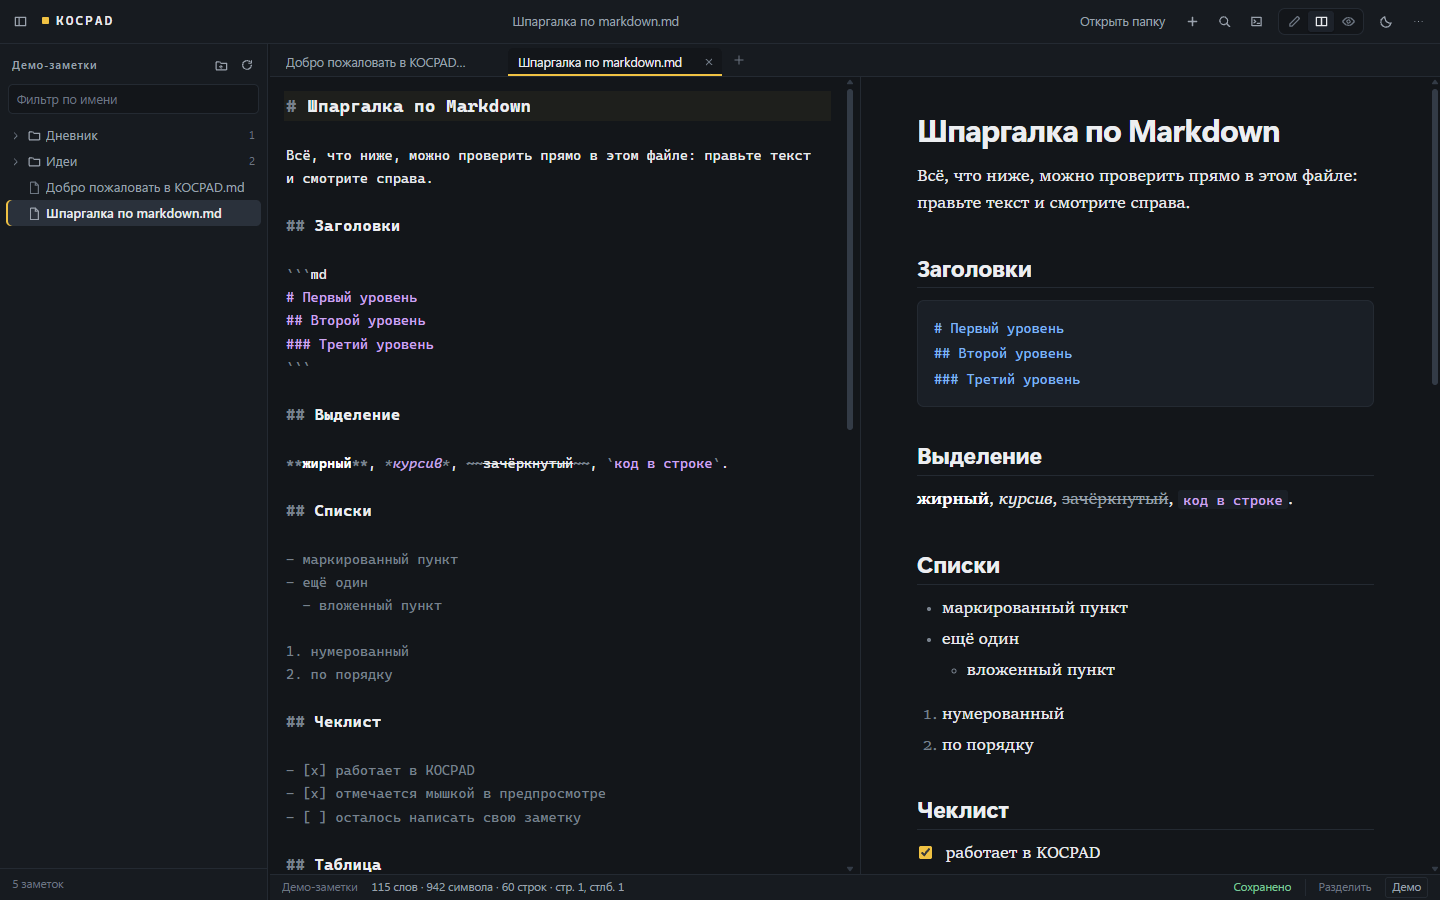
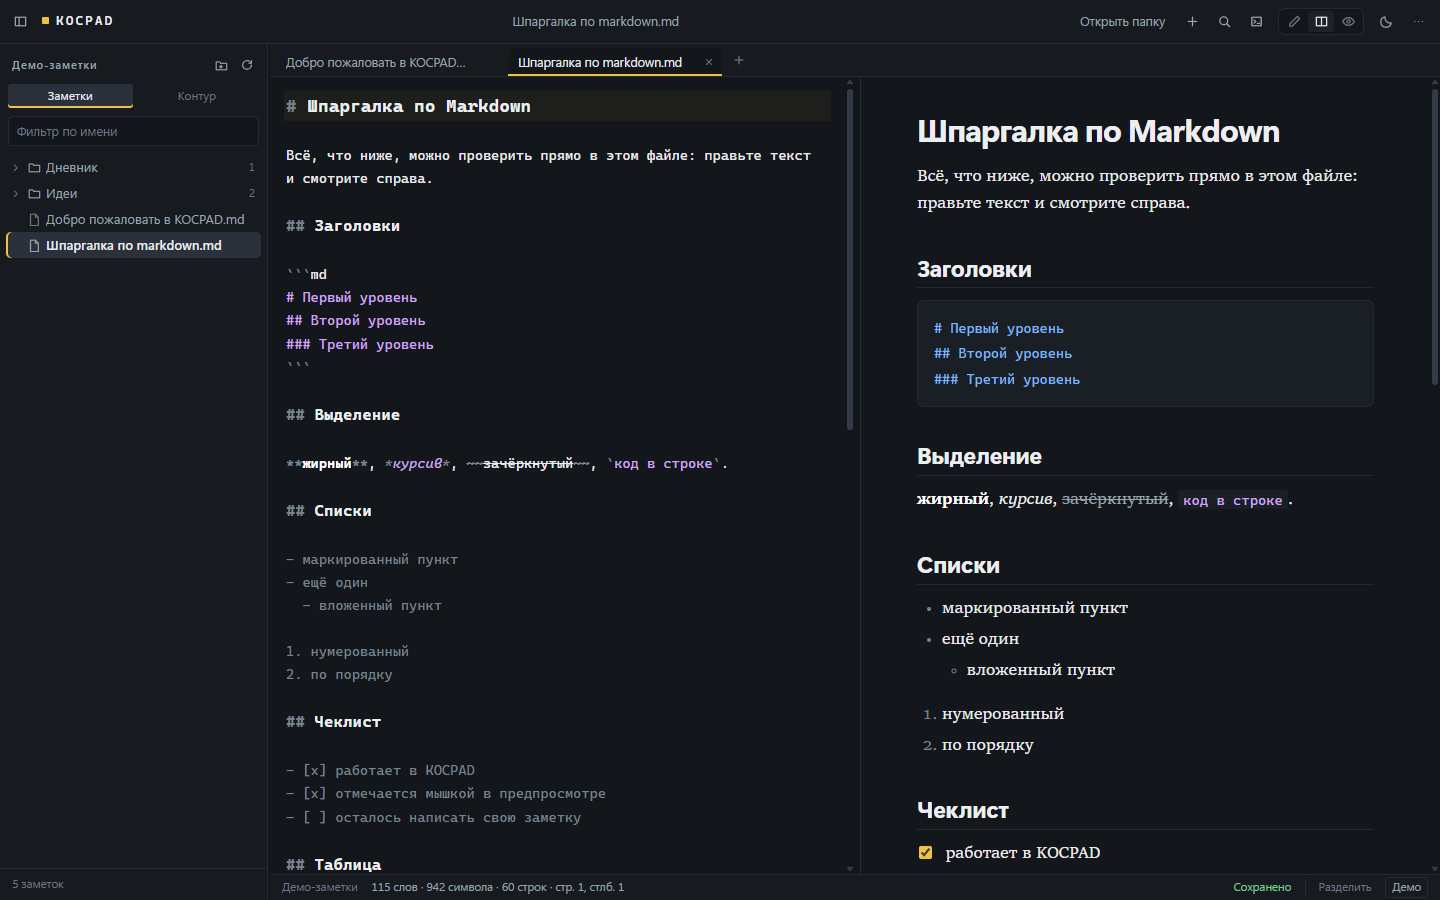
docs: describe the 0.2.0 features and refresh screenshots
README gains the outline, image and drag-drop rows, the two new shortcuts and
four screenshots; ARCHITECTURE explains the image pipeline, the outline parser,
dropped files and the settings flow; KEYBINDINGS and ROADMAP cover the new
actions; CHANGELOG records 0.2.0 and the block-insertion fix.

Changed region(s): [[0.0, 0.0933, 0.1875, 0.3111], [0.125, 0.0933, 0.1562, 0.1244]]

diff --git a/README.md b/README.md
@@ -7,8 +7,8 @@ instantly, autosaves as you type, and shows the rendered result next to the
 source. No accounts, no database, no proprietary format — just files you can
 open in any other editor.
 
-> Status: early alpha (`0.1.0`). The core notepad works end to end; packaging and
-> polish are the next milestone. See [ROADMAP.md](docs/ROADMAP.md).
+> Status: early alpha (`0.2.0`). The writing workflow works end to end; packaging
+> and polish are the next milestone. See [ROADMAP.md](docs/ROADMAP.md).
 
 ![KOCPAD in split mode, light theme](docs/screenshots/light.png)
 
@@ -30,10 +30,13 @@ open in any other editor.
 | Notes | Folder of `.md` / `.markdown` / `.mdown` / `.txt` files, tree sidebar, create / rename / delete folders and notes, filter by name |
 | Writing | CodeMirror 6 editor, markdown syntax highlighting, soft wrap, per-tab undo history, bold/italic shortcuts |
 | Preview | Live GFM render: headings, tables, task lists, code with highlighting, quotes, links; synchronized scrolling |
-| Saving | Debounced autosave (700 ms), explicit `Ctrl+S`, flush on tab switch, window blur and app close |
+| Structure | Outline panel listing every heading of the current note, click to jump, current section highlighted |
+| Images | Paste or drop an image: it is written to `assets/` next to the note and inserted as markdown; relative images render in the preview |
+| Saving | Debounced autosave (0.3 s / 0.7 s / 1.5 s, configurable), explicit `Ctrl+S`, flush on tab switch, window blur and app close |
 | Search | In-note find & replace (`Ctrl+F`, `Ctrl+H`), workspace-wide search with match snippets (`Ctrl+Shift+F`) |
-| Interface | Light / dark / follow-Windows themes, editor-only and preview-only modes, draggable sidebar and split, Russian UI |
-| Commands | Command palette (`Ctrl+K`) over every action |
+| Interface | Light / dark / follow-Windows themes, five accent colours, configurable editor and preview fonts, editor-only and preview-only modes, draggable sidebar and split, Russian UI |
+| Files in | Drag `.md` or `.txt` files from Explorer into the window to import and open them |
+| Commands | Command palette (`Ctrl+K`) over every action; settings screen (`Ctrl+,`) |
 | Export | Standalone HTML file, print-to-PDF through the system print dialog |
 | Tasks | Click a checkbox in the preview to toggle `- [ ]` in the source |
 
@@ -95,6 +98,8 @@ npm run build          # typecheck + production frontend build
 | `Ctrl+H` | Find and replace |
 | `Ctrl+Shift+F` | Search the whole workspace |
 | `Ctrl+K` | Command palette |
+| `Ctrl+,` | Settings |
+| `Ctrl+Shift+O` | Outline panel |
 | `Ctrl+E` | Cycle editor → split → preview |
 | `Ctrl+B` / `Ctrl+I` | Bold / italic |
 | `Ctrl+P` | Print (save as PDF) |
@@ -113,6 +118,10 @@ Full list with context: [docs/KEYBINDINGS.md](docs/KEYBINDINGS.md).
 | --- | --- |
 | ![Light theme](docs/screenshots/light.png) | ![Dark theme](docs/screenshots/dark.png) |
 
+| Outline panel | Settings |
+| --- | --- |
+| ![Outline panel](docs/screenshots/outline.png) | ![Settings](docs/screenshots/settings.png) |
+
 ![Workspace search](docs/screenshots/search.png)
 
 ## How it is built
@@ -123,15 +132,17 @@ KOCPAD
 ├─ src/
 │  ├─ main.ts            wiring: theme, layout, shortcuts, actions, autosave
 │  ├─ store.ts           single source of truth: settings, tree, tabs, saves
+│  ├─ images.ts          pasted images → assets/, relative images → blob URLs
 │  ├─ storage/           three backends behind one interface
 │  │  ├─ tauri.ts        native build → Rust commands
 │  │  ├─ browser.ts      File System Access API + IndexedDB handle
 │  │  └─ demo.ts         in-memory sample workspace
 │  ├─ editor.ts          CodeMirror 6 wrapper, per-document EditorState
 │  ├─ markdown.ts        GFM render, sanitizing, syntax highlight, print/export
-│  ├─ ui/                tree, tabs, status bar, dialogs, palette, search
+│  ├─ ui/                tree, outline, tabs, status bar, dialogs, palette,
+│  │                     search, settings
 │  ├─ path.ts, util.ts   path and DOM helpers
-│  └─ style.css          design tokens, themes, components
+│  └─ style.css          design tokens, themes, accents, components
 ├─ src-tauri/            Tauri 2 shell
 │  ├─ src/fs_ops.rs      list / read / write / rename / delete / reveal
 │  ├─ tauri.conf.json    window, CSP, bundle config
@@ -147,16 +158,16 @@ Design decisions worth knowing:
   so undo history and caret survive tab switches.
 - **Writes are serialized per path.** Autosave and explicit saves cannot
   interleave; a snapshot is only marked clean after it reached the disk.
-- **The Rust side is small on purpose.** Nine commands, no plugin scopes to
+- **The Rust side is small on purpose.** Eleven commands, no plugin scopes to
   maintain, one place that decides which files count as notes.
 
 More detail: [docs/ARCHITECTURE.md](docs/ARCHITECTURE.md).
 
 ## Roadmap
 
-Near-term: local `.exe` build verified on a clean machine, installer signing,
-drag-and-drop files, image paste, outline panel, and splitting export into
-per-document themes. The full list lives in [docs/ROADMAP.md](docs/ROADMAP.md).
+Near-term: verify the local `.exe` build on a clean machine, code-sign the
+installer, and remember window geometry between launches. The full list lives in
+[docs/ROADMAP.md](docs/ROADMAP.md).
 
 ## Contributing
 

diff --git a/docs/ARCHITECTURE.md b/docs/ARCHITECTURE.md
@@ -37,6 +37,8 @@ interface Storage {
   listTree(): Promise<NoteNode[]>;
   readText(path: string): Promise<string>;
   writeText(path: string, text: string): Promise<void>;
+  readBinary(path: string): Promise<Uint8Array<ArrayBuffer>>;
+  writeBinary(path: string, bytes: Uint8Array<ArrayBuffer>): Promise<void>;
   createFile(path: string, text?: string): Promise<void>;
   createDir(path: string): Promise<void>;
   rename(from: string, to: string): Promise<void>;
@@ -61,8 +63,13 @@ The rest of the app treats paths as opaque strings and only uses the helpers in
 
 **Why Rust commands instead of `tauri-plugin-fs`:** the plugin needs a configured
 allow-list scope per directory, which is awkward for a user-picked folder at
-runtime. Nine small commands keep permissions simple and let the native side
+runtime. Eleven small commands keep permissions simple and let the native side
 decide which files are notes (`.md`, `.markdown`, `.mdown`, `.txt`).
+
+Binary assets cross the Tauri IPC boundary as base64 (`fs_read_binary` /
+`fs_write_binary`), because a JSON array of bytes is dramatically slower for a
+few-megabyte image. The browser backend writes an `ArrayBuffer` straight into the
+File System Access stream.
 
 ## Document lifecycle
 
@@ -98,6 +105,45 @@ CodeMirror 6 with:
 - a single `HighlightStyle` whose colours are CSS variables — one style, both themes;
 - per-document `EditorState` stored in a `Map<path, EditorState>`.
 
+Editor font family and size are CSS variables (`--font-editor`,
+`--editor-font-size`), so the settings screen changes them without touching the
+editor instance.
+
+## Outline
+
+`parseHeadings()` walks the active document line by line, tracks fenced code
+blocks (` ``` ` / `~~~`) so a `# comment` inside a snippet is not mistaken for a
+section, and collects ATX headings with their line number. Inline markdown is
+stripped for display. The outline highlights the last heading at or above the
+caret, which gives a sense of position in long notes; clicking an entry dispatches
+`editor.scrollToLine()`.
+
+## Images
+
+Pasted and dropped images go through `ImageStore` (`src/images.ts`):
+
+1. bytes are written to `assets/` next to the note (name collisions get a numeric
+   suffix, `screen.png` → `screen-1.png`);
+2. `![](assets/screen.png)` is inserted on its own line at the caret;
+3. when the preview renders, every relative `img[src]` is resolved against the
+   note's folder, the bytes are read through the storage backend and turned into a
+   blob URL. Remote schemes (`http`, `data`, `blob`) pass through untouched, and a
+   missing file becomes a readable placeholder instead of a broken image icon.
+
+Because resolution goes through `Storage.readBinary`, images work identically for
+native files, a browser folder and the in-memory demo.
+
+`assets/` folders that contain no notes are pruned from the notes tree so the
+sidebar stays a list of notes.
+
+## Dropped files
+
+HTML5 drag & drop is enabled in the Tauri window (`dragDropEnabled: false`), which
+hands the webview the actual `File` objects. Dropped markdown and text files are
+imported into the active note's folder and opened; an existing note with the same
+name is opened instead of overwritten. Dropped images follow the image pipeline
+above.
+
 ## Preview and export
 
 `renderMarkdown()` runs `marked` (GFM) and then DOMPurify with an explicit
@@ -118,12 +164,19 @@ re-render from state; there is no virtual DOM and no diffing. Settings live in
 `localStorage` (`kocpad.settings`), the last workspace root in `kocpad.root`, and
 open tabs in `kocpad.tabs`.
 
+The settings screen writes through `store.patchSettings()`, so a control never
+mutates the DOM directly: the change is persisted, a `settings` event fires, and
+`applyLayout()` / `applyTypography()` / `applySidebarTab()` re-apply tokens and
+layout from state.
+
 ## Theming
 
 Two themes, tokens only (`src/style.css`): a graphite “paper” chrome with one
-marker-yellow accent. The editor, the preview and every dialog read the same CSS
-variables, so adding a theme means adding one token block. `system` follows
-`prefers-color-scheme` and reacts to runtime changes.
+accent. The accent is chosen from five presets (`marker`, `azure`, `jade`, `iris`,
+`rose`) which override `--accent`, selection and quote-bar variables per theme.
+Editor, preview and every dialog read the same CSS variables, so adding a theme
+means adding one token block. `system` follows `prefers-color-scheme` and reacts to
+runtime changes.
 
 ## Security notes
 

diff --git a/CHANGELOG.md b/CHANGELOG.md
@@ -4,6 +4,42 @@ All notable changes to KOCPAD are documented here. The format follows
 [Keep a Changelog](https://keepachangelog.com/en/1.1.0/), and the project uses
 [semantic versioning](https://semver.org/).
 
+## [0.2.0] — 2026-11-18
+
+Writing comfort: structure, images and settings.
+
+### Added
+
+- Outline panel in the sidebar (Заметки / Контур tabs): lists every heading of the
+  active note, skips headings inside fenced code, highlights the section the caret
+  is in, and jumps to a line on click.
+- Image support: pasting an image or dropping an image file writes it to an
+  `assets/` folder next to the note, inserts `![](assets/name.png)` on its own
+  line, and renders relative images in the preview through blob URLs. Name
+  collisions get a numeric suffix.
+- Drag & drop for `.md` / `.txt` files: a dropped note is imported into the current
+  folder and opened; a note with the same name is opened instead of overwritten.
+- Settings screen (`Ctrl+,`): theme, five accent colours, editor font family and
+  size, preview font family and size, autosave delay, line numbers, synchronized
+  scrolling, and a reset button.
+- Accent themes applied across the whole UI as CSS variables.
+- Binary read/write on every storage backend: base64 over Tauri IPC, `ArrayBuffer`
+  through the File System Access API, in-memory blobs for the demo workspace.
+
+### Changed
+
+- Autosave delay is a user setting (0.3 s / 0.7 s / 1.5 s) instead of a constant.
+- Editor and preview typography moved to CSS variables, so font changes apply
+  without reloading the editor.
+- `assets/` folders that contain no notes are hidden from the notes tree.
+- The Tauri window disables native drag & drop so the webview receives HTML5 file
+  drops with the actual file contents.
+
+### Fixed
+
+- Inserted images no longer glue to the following line when the caret sits at the
+  start or middle of a line.
+
 ## [0.1.0] — 2026-11-18
 
 First working version: a markdown notepad that keeps notes as plain files.

diff --git a/docs/ROADMAP.md b/docs/ROADMAP.md
@@ -13,23 +13,26 @@
 - [x] Three storage backends: Tauri, browser File System Access, in-memory demo
 - [x] Tauri 2 shell with native file commands, app icons, CI build
 
-## 0.2.0 — ship a real installer
+## 0.2.0 — writing comfort (done)
+
+- [x] Outline panel: every heading of the current note, click to jump, active section
+  follows the caret
+- [x] Paste or drop an image: saved to `assets/` next to the note, markdown inserted
+  on its own line, relative images rendered in the preview
+- [x] Drag `.md` / `.txt` files into the window to import and open them
+- [x] Settings screen (`Ctrl+,`): theme, five accent colours, editor font family and
+  size, preview font family and size, autosave delay, line numbers, sync scrolling
+- [x] Autosave delay is a setting instead of a constant
+- [x] Binary storage on all three backends (base64 over Tauri IPC)
+
+## 0.3.0 — ship a real installer
 
 - [ ] Verify `tauri build` on a clean Windows machine and attach the installer to a release
 - [ ] Code-sign the exe and installer (avoids SmartScreen warnings)
 - [ ] Remember window size and position between launches
-- [ ] Drag & drop a `.md` file onto the window to open it
 - [ ] “Recent folders” list in the palette
 - [ ] First-run onboarding: pick a folder in one step
-
-## 0.3.0 — writing comfort
-
-- [ ] Outline panel (headings of the current note) with click-to-jump
-- [ ] Paste or drop an image: copy into `assets/`, insert `![](...)`
-- [ ] Autocomplete for markdown syntax and note links
-- [ ] Word-level diff against disk for the “changed outside” case with a reload prompt
-- [ ] Configurable autosave delay and editor font family
-- [ ] Vim / Emacs keymap option
+- [ ] Configurable tab width and a Vim / Emacs keymap option
 
 ## 0.4.0 — larger libraries
 

diff --git a/docs/KEYBINDINGS.md b/docs/KEYBINDINGS.md
@@ -48,9 +48,19 @@
 | --- | --- |
 | `Ctrl+E` | Cycle editor → split → preview |
 | `Ctrl+K` | Command palette |
+| `Ctrl+,` | Settings |
+| `Ctrl+Shift+O` | Outline panel (headings of the current note) |
 | `Ctrl+\` | Show or hide the sidebar |
 | `Ctrl+Shift+L` | Switch between light and dark theme |
 | `Esc` | Close any dialog, palette or overlay |
+
+## Images and files
+
+| Action | Result |
+| --- | --- |
+| `Ctrl+V` with an image in the clipboard | Image saved to `assets/` next to the note, `![](...)` inserted at the caret |
+| Drop an image file onto the window | Same as paste |
+| Drop a `.md` / `.txt` file from Explorer | Imported into the current note's folder and opened (an existing note with that name is opened instead) |
 
 ## Mouse
 
@@ -58,6 +68,7 @@
 | --- | --- |
 | Click a folder | Expand or collapse it |
 | Click a note | Open it in a tab |
+| Click a heading in the outline | Jump to that line |
 | Middle click a tab | Close it |
 | Drag the sidebar edge | Resize the sidebar |
 | Drag the divider between panes | Change the editor / preview split |
